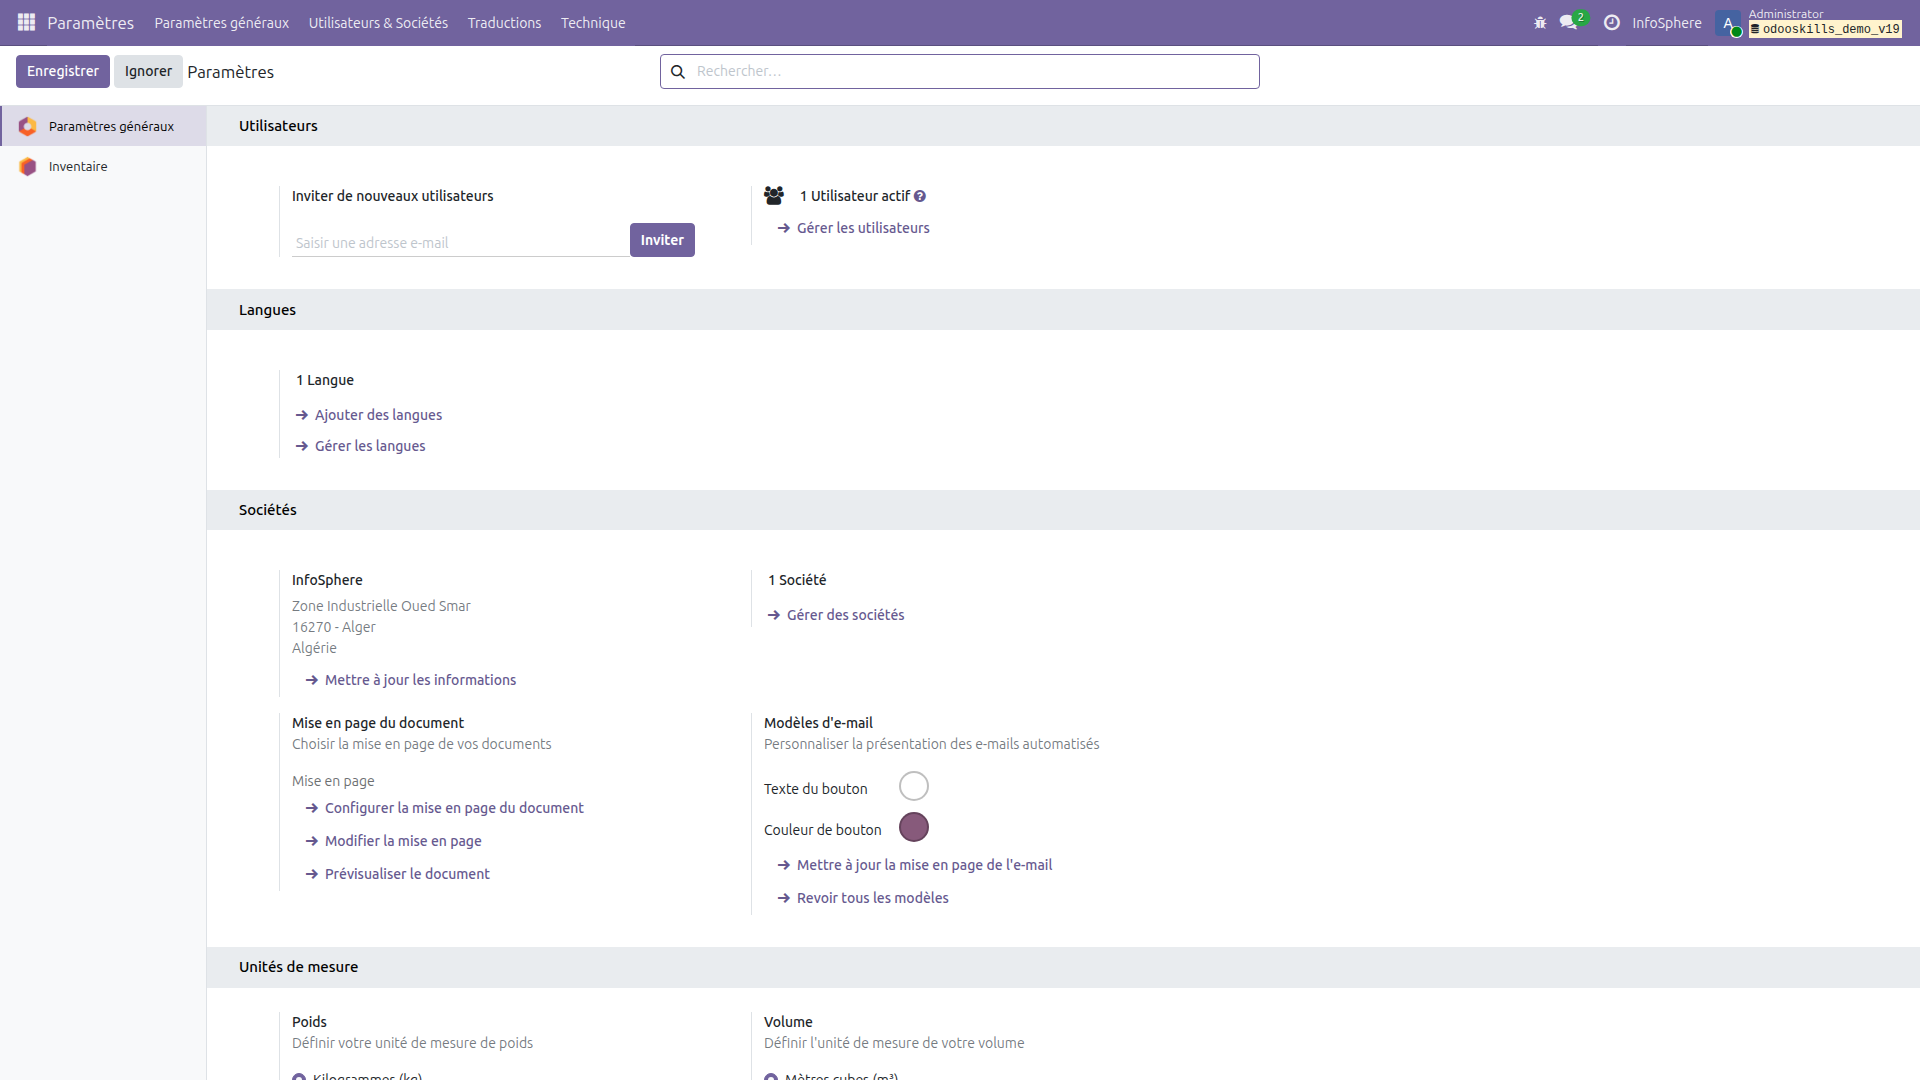
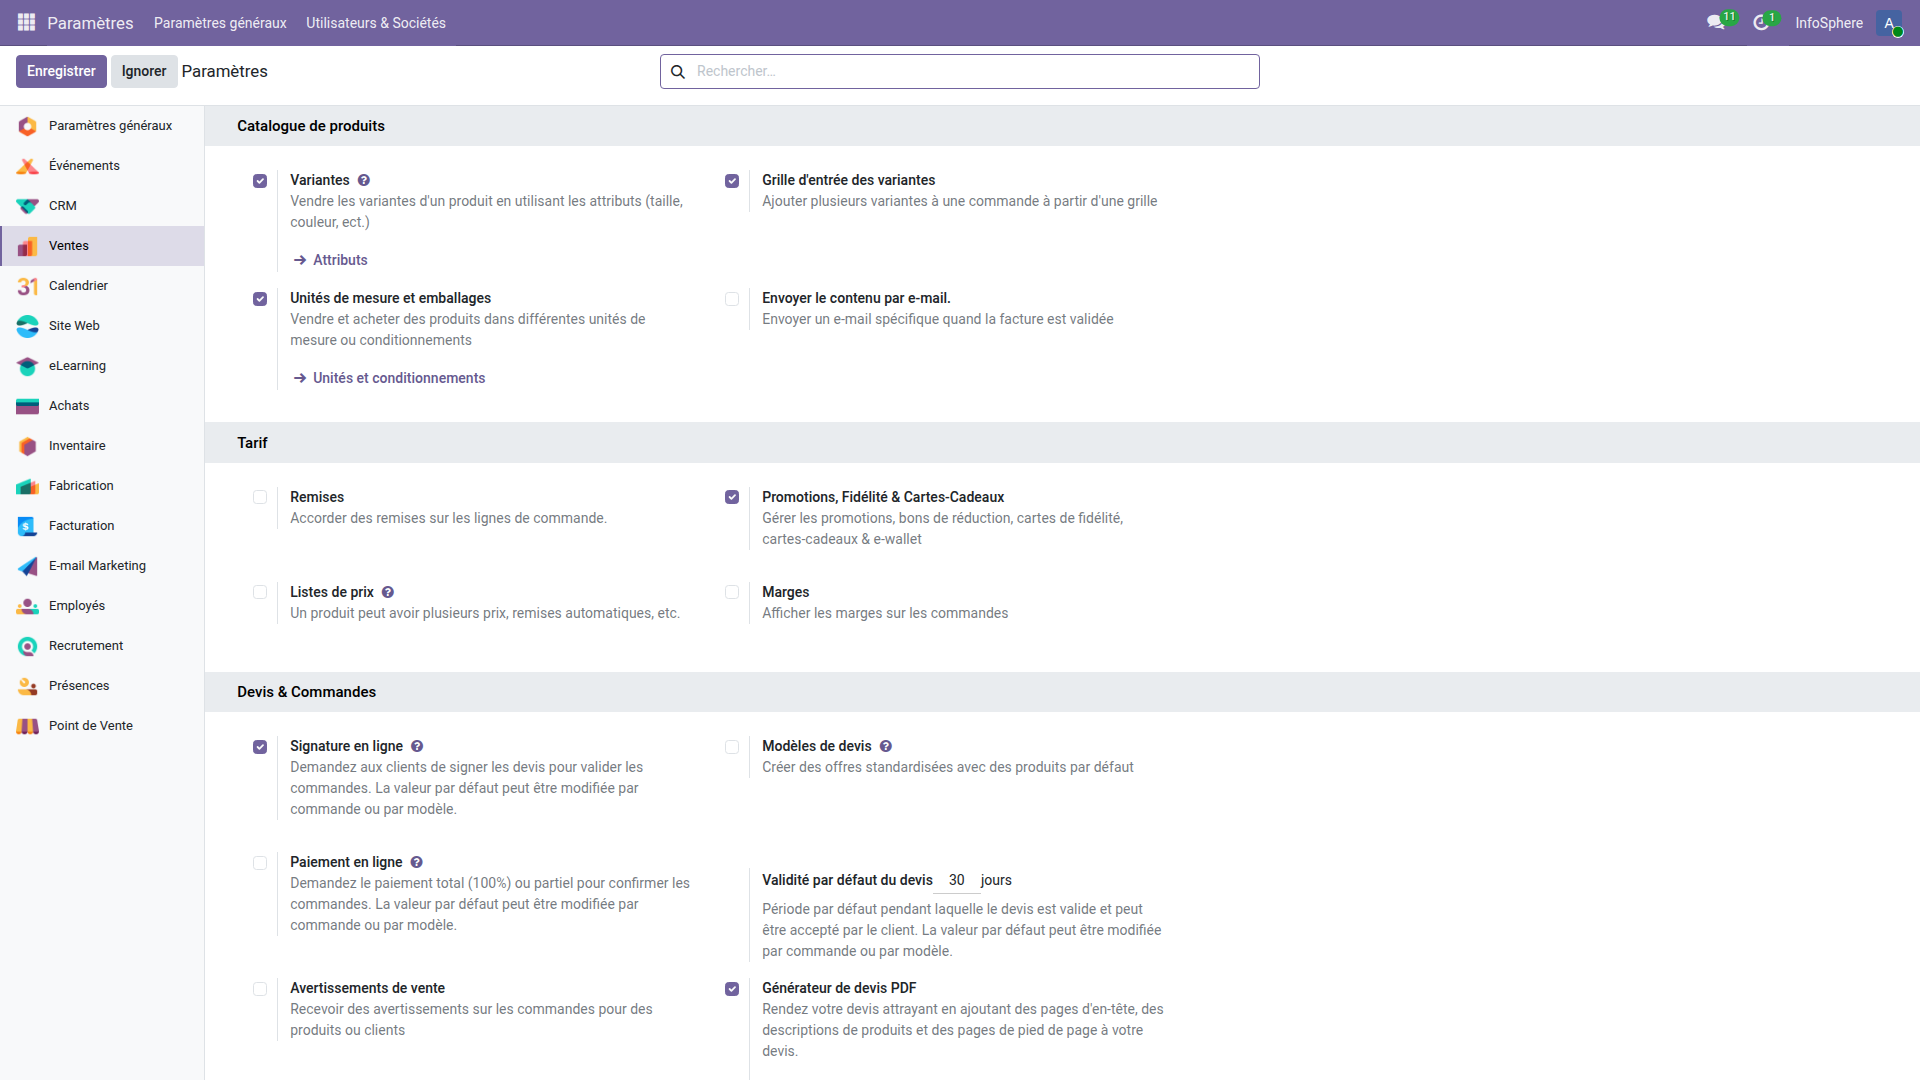
fix(blog): images restantes — UoM, Conventions achat, Docker diagram
- art.02 UoM: 01-parametres-uom.png retaken — Settings Ventes
  section "Unités de mesure et emballages" activée (✓)
- art.05 Achats: 00-settings-achats-conventions.png (nouveau) —
  Settings Achats montrant "Conventions d'achat ✓" + "Options d'achat"
- T03 Docker: architecture-docker-odoo.png (SVG→PNG, 207K) —
  diagram conteneurs db+odoo+navigateur avec volumes et réseau
- T03 HTML: DIAGRAM_ID → __IMG_DIAG__ (format placeholder cohérent)

diff --git a/articles/T03-installer-odoo-19-docker.html b/articles/T03-installer-odoo-19-docker.html
@@ -98,7 +98,7 @@ Temps de lecture : ~14 minutes
             <div class="col-lg-10 mx-auto text-center">
                 <p class="mb-4">Deux containers communiquent via un réseau Docker interne.
                     Les données sont stockées dans des volumes nommés qui survivent à la destruction des containers.</p>
-                <img src="/web/image/DIAGRAM_ID" alt="Architecture Docker Odoo 19 : containers, volumes et réseau" class="img-fluid rounded shadow" style="max-width: 100%;"/>
+                <img src="__IMG_DIAG__" alt="Architecture Docker Odoo 19 : containers, volumes et réseau" class="img-fluid rounded shadow" style="max-width: 100%;"/>
                 <p class="small text-muted mt-2">Le container <code>db</code> (PostgreSQL 16) et le container <code>odoo</code> (Odoo 19)
                     partagent un réseau Docker. Les volumes verts persistent les données sur le disque hôte.</p>
             </div>
